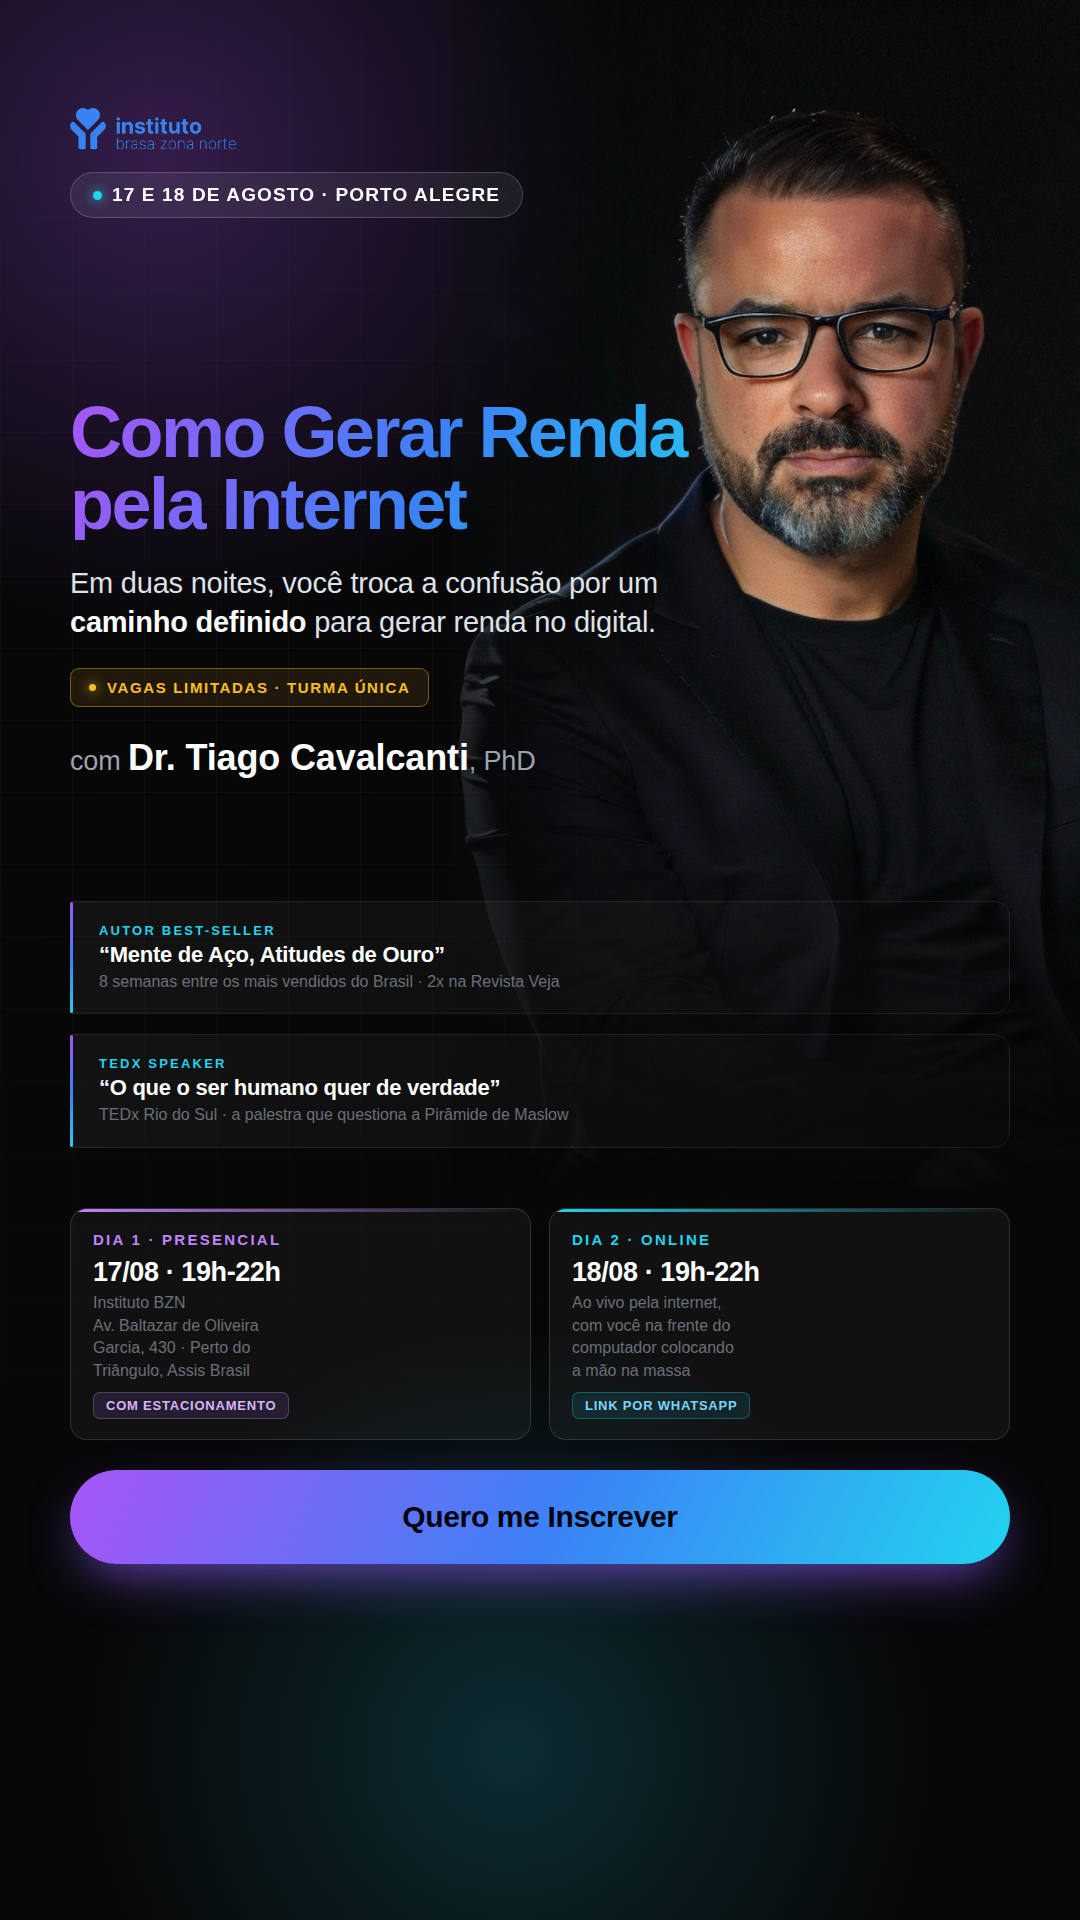
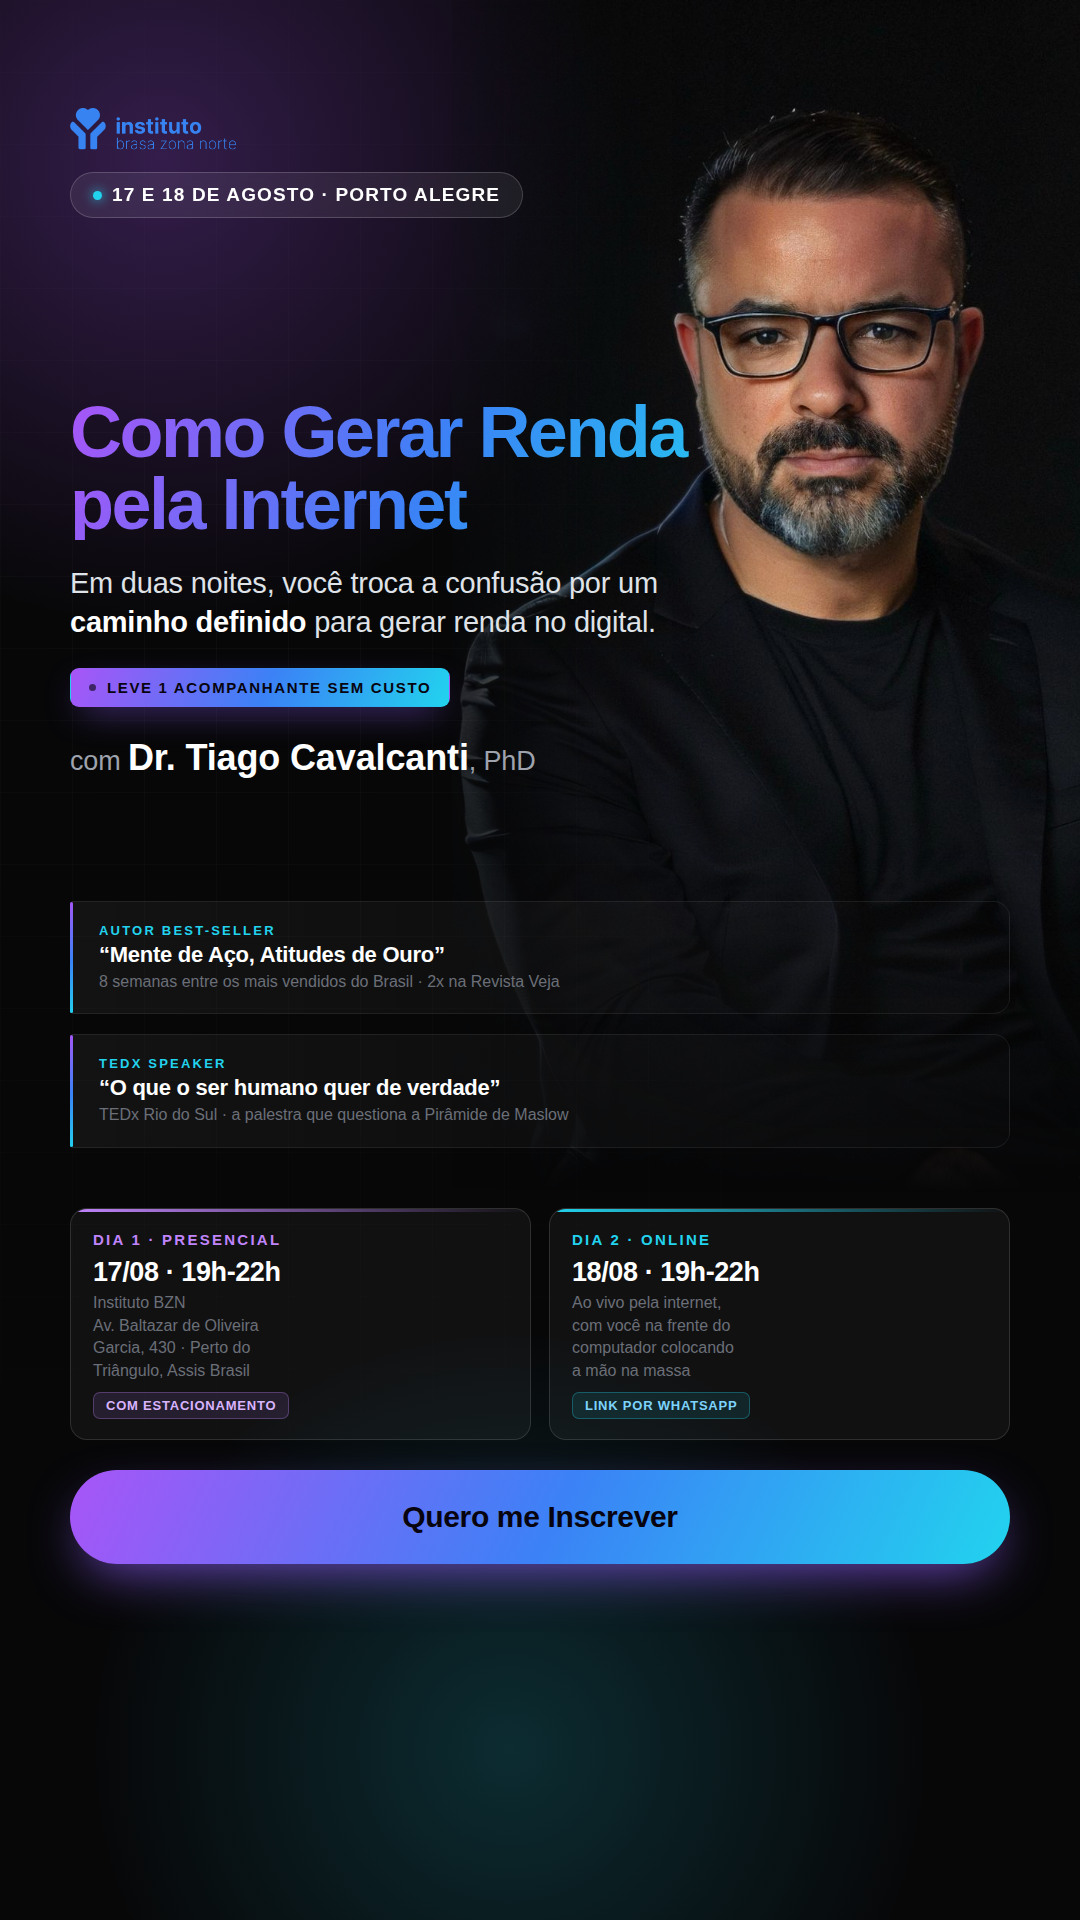
Leva o bonus do acompanhante para os cards e suaviza a escassez
Os criativos ainda nao traziam o bonus, que e o argumento mais forte que
a pagina ganhou. A tarja ambar de "vagas limitadas" da lugar a uma tarja
em gradiente com "Leve 1 acompanhante sem custo" — mesmo elemento, sem
aumentar a densidade do card.

Na pagina, sai a conta de "bastam 25 inscricoes para lotar". O numero
era pequeno demais e podia ser lido como "ja acabou", o que desestimula
em vez de apressar. Fica so a capacidade de 50 lugares, que comunica
sala pequena sem sugerir que a vaga ja foi.

Todos os 17 cards regerados e verificados contra vazamento.

Cache dos assets versionado para v=41.

Claude-Session: https://claude.ai/code/session_01WbkxUMsJSRAA9ULHXDAkuJ

Changed region(s): [[0.0611, 0.3438, 0.4278, 0.375]]

diff --git a/index.html b/index.html
@@ -34,7 +34,7 @@
   <link rel="preconnect" href="https://fonts.gstatic.com" crossorigin />
   <link href="https://fonts.googleapis.com/css2?family=Inter:wght@400;500;600;700&family=Space+Grotesk:wght@500;600;700&display=swap" rel="stylesheet" />
 
-  <link rel="stylesheet" href="css/styles.css?v=40" />
+  <link rel="stylesheet" href="css/styles.css?v=41" />
 
   <!-- ============================= META PIXEL ============================= -->
   <!-- Meta Pixel Code · ID 4539351162973908 · dispara PageView no carregamento -->
@@ -625,8 +625,8 @@
           <!-- ⚠ EDITAR: confirmar como o convidado é registrado (nome informado após a compra? formulário? e-mail?) -->
           <p class="bonus-fine">
             Após a inscrição, basta informar o nome de quem vai com você. Válido para as duas noites.
-            <strong>O auditório do Instituto BZN comporta 50 pessoas — e cada inscrição pode ocupar duas.</strong>
-            Bastam 25 inscrições para lotar a noite presencial.
+            <strong>O auditório do Instituto BZN tem 50 lugares</strong>, e cada inscrição pode ocupar dois deles.
+            Quanto antes garantir, maior a chance de vocês sentarem juntos.
           </p>
         </div>
       </div>
@@ -746,7 +746,7 @@
           <details class="acc-item">
             <summary>Posso mesmo levar alguém sem pagar nada a mais?</summary>
             <!-- ⚠ EDITAR: confirmar se o convidado tambem recebe certificado -->
-            <div class="acc-body"><p>Sim. Uma inscrição dá direito a <strong>duas pessoas</strong>, nas duas noites — não é meia entrada nem desconto, é acompanhante sem custo. Depois de se inscrever, você informa o nome de quem vai com você. O auditório comporta 50 pessoas e cada inscrição pode ocupar duas — ou seja, bastam 25 inscrições para lotar a noite presencial. Quanto antes garantir, maior a chance de vocês sentarem juntos.</p></div>
+            <div class="acc-body"><p>Sim. Uma inscrição dá direito a <strong>duas pessoas</strong>, nas duas noites — não é meia entrada nem desconto, é acompanhante sem custo. Depois de se inscrever, você informa o nome de quem vai com você. O auditório tem 50 lugares, e como cada inscrição pode ocupar dois deles, eles enchem mais rápido do que parece. Quanto antes garantir, maior a chance de vocês sentarem juntos.</p></div>
           </details>
           <details class="acc-item">
             <summary>Como funciona o pagamento?</summary>
@@ -764,7 +764,7 @@
           <h2 id="cta-title">O mundo digital não vai <span class="grad-text">esperar</span>.</h2>
           <p>Em duas noites, você troca a confusão por clareza e sai com um caminho definido. O melhor momento para entender esse jogo é agora.</p>
           <a href="https://inscricao.institutobzn.org/pay/como-gerar-renda-pela-internet" class="btn btn-primary btn-xl">Quero minha vaga por R$ 97 — e levo um convidado</a>
-          <p class="cta-fineprint">Uma inscrição, duas pessoas. O auditório do Instituto BZN tem 50 lugares — bastam 25 inscrições para esgotar a noite presencial.</p>
+          <p class="cta-fineprint">Uma inscrição, duas pessoas. São 50 lugares no auditório do Instituto BZN.</p>
         </div>
       </div>
     </section>
@@ -807,6 +807,6 @@
     </div>
   </footer>
 
-  <script src="js/main.js?v=40" defer></script>
+  <script src="js/main.js?v=41" defer></script>
 </body>
 </html>
